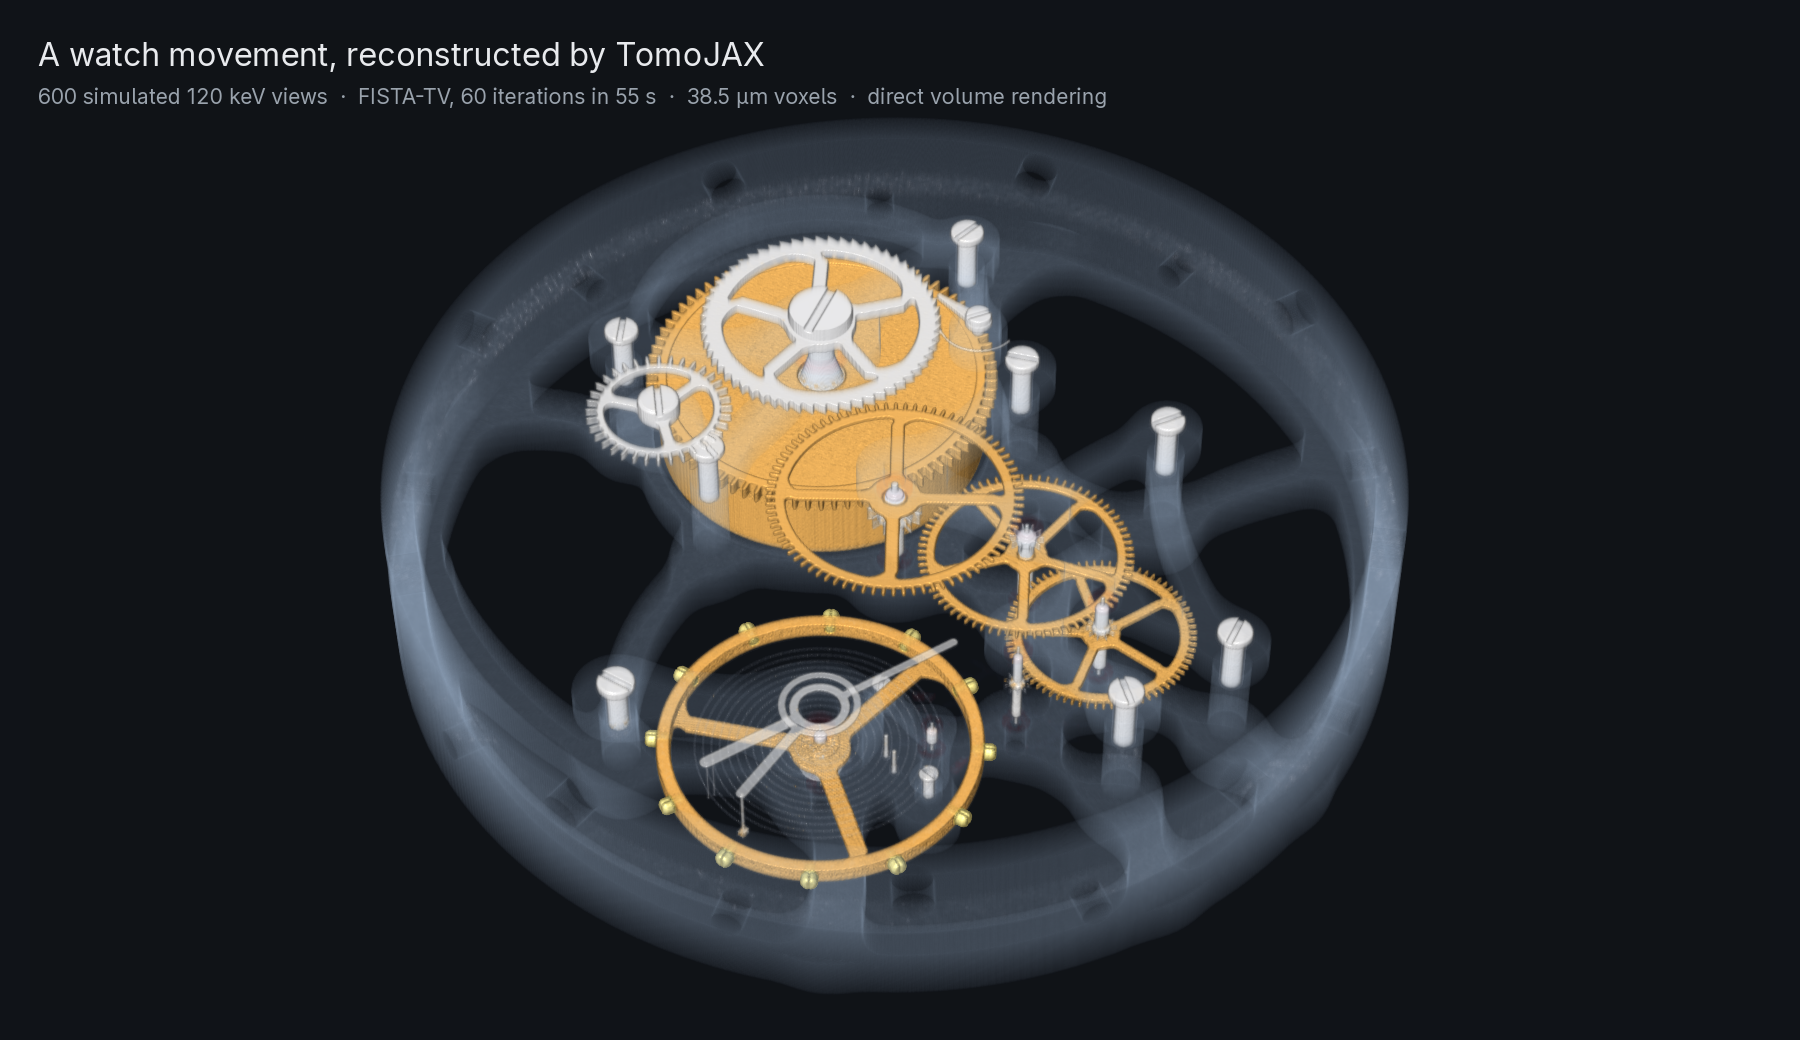
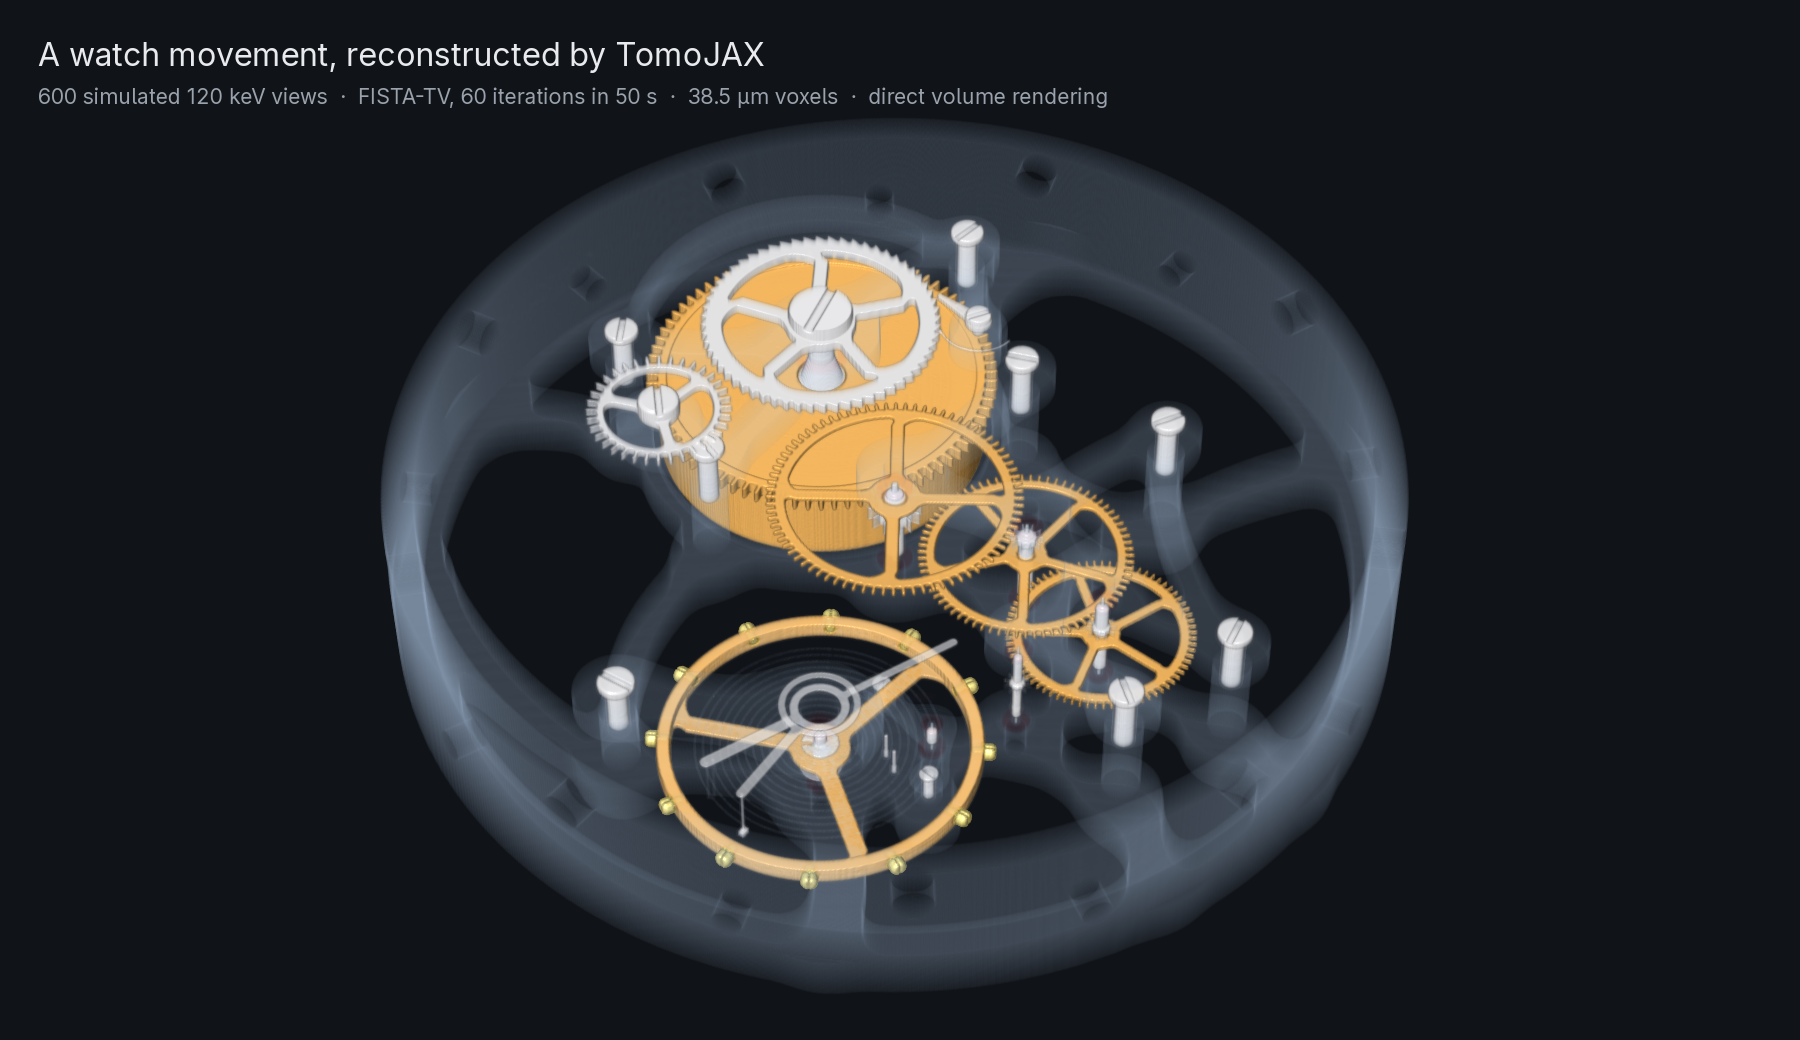
Redraw the README's few-view and render figures at a TV weight that keeps the hairspring
reconstruct_watch.py and render_watch.py fixed FISTA-TV's weight at 0.01, which
on today's TV scale over-smooths: the few-view figure's FISTA-TV error was 0.690
against the published 0.125. The automatic weight gives 0.160 and smooths the
hairspring away; 1e-5, as the README's alignment figure uses, gives 0.124 (FBP
0.357), in 17 s. Both scripts now use 1e-5; the figures, their records and the
README and examples/images notes are redrawn and corrected (render: 50 s).

diff --git a/examples/render_watch.py b/examples/render_watch.py
@@ -32,7 +32,7 @@ from tomojax.geometry import stack_view_poses
 
 SIZE, LAYERS, FIELD, MIDDLE = 768, 164, 29.6, 3.0
 VIEWS, PHOTONS = 600, 3e4
-RECONSTRUCTION = {"iterations": 60, "tv_weight": 0.01, "nonnegative": True, "warm_start": True}
+RECONSTRUCTION = {"iterations": 60, "tv_weight": 1e-5, "nonnegative": True, "warm_start": True}
 TRANSFER = _volume_render.Transfer(  # attenuation in mm^-1 at 120 keV
     stops=(
         0.0,

diff --git a/examples/reconstruct_watch.py b/examples/reconstruct_watch.py
@@ -31,7 +31,7 @@ from tomojax.geometry import stack_view_poses
 
 SIZE, SLAB, FIELD = 768, 32, 29.6  # voxels across, slab thickness in voxels, field in mm
 VIEWS, PHOTONS = 200, 1e4
-FILTER, TV_WEIGHT, ITERATIONS = "hann", 0.01, 200
+FILTER, TV_WEIGHT, ITERATIONS = "hann", 1e-5, 200
 ZOOM = 280  # voxels on a side of the balance close-up
 
 

diff --git a/examples/README.md b/examples/README.md
@@ -55,9 +55,9 @@ about 40 s. Times are on an RTX 4070 Laptop GPU.
 [reconstruct_watch.py](reconstruct_watch.py) scans the movement with 200 views
 over a half turn and 10⁴ photons per pixel, and reconstructs a 32-slice slab
 through the hairspring on 38.5 µm voxels with filtered backprojection (Hann
-filter) and with 200 iterations of non-negative FISTA-TV (weight 0.01) started
-from it. Over the whole slab the relative L2 error is 0.357 for FBP and
-0.125 for FISTA-TV, which takes 15 s. The script takes about a minute.
+filter) and with 200 iterations of non-negative FISTA-TV (weight 1e-5, which keeps
+the hairspring) started from it. Over the whole slab the relative L2 error is 0.357
+for FBP and 0.124 for FISTA-TV, which takes 17 s. The script takes about a minute.
 
 ### Align a scan with per-view motion
 
@@ -83,7 +83,7 @@ there the centre is found at 3.19 px.
 
 [render_watch.py](render_watch.py) scans the whole movement with 600 views and
 3 × 10⁴ photons per pixel, reconstructs it on a 768 × 768 × 164 grid of 38.5 µm
-voxels with 60 FISTA-TV iterations (55 s), and draws the reconstruction
+voxels with 60 FISTA-TV iterations (weight 1e-5, 50 s), and draws the reconstruction
 by direct volume rendering in JAX ([_volume_render.py](_volume_render.py)).
 Rays march through the volume, and a transfer function of the reconstructed
 attenuation sets colour and opacity: steel white, brass and the balance gold,

diff --git a/images/README.md b/images/README.md
@@ -15,8 +15,8 @@ loaded automatically on the project page.
 ![A simulated mechanical watch movement reconstructed by TomoJAX and drawn by direct volume rendering.](watch-render.png)
 
 [watch-render.png](watch-render.png) comes from
-[render_watch.py](../examples/render_watch.py): a FISTA-TV reconstruction of
-600 noisy views on 38.5 µm voxels, drawn by ray casting through the volume with
+[render_watch.py](../examples/render_watch.py): a FISTA-TV reconstruction (weight
+1e-5) of 600 noisy views on 38.5 µm voxels, drawn by ray casting through the volume with
 a transfer function of the reconstructed attenuation. Colour and opacity are
 display choices recorded in [watch-render.json](watch-render.json); the shapes
 are the reconstruction's.
@@ -28,7 +28,7 @@ are the reconstruction's.
 [reconstruction-example.png](reconstruction-example.png) comes from
 [reconstruct_watch.py](../examples/reconstruct_watch.py): 200 views with
 10⁴ photons per pixel, a 32-slice slab on 38.5 µm voxels, FBP with a Hann
-filter and FISTA-TV. Every panel shares one grey scale, 0 to 0.36 mm⁻¹, so
+filter and FISTA-TV (weight 1e-5). Every panel shares one grey scale, 0 to 0.36 mm⁻¹, so
 steel and brass saturate. Errors are relative L2 over the whole slab against
 the exact voxel average of the meshes, recorded in
 [reconstruction-example.json](reconstruction-example.json).

diff --git a/README.md b/README.md
@@ -19,7 +19,7 @@ before choosing it for an experiment. The documentation is at
 
 A 29 mm mechanical watch movement, scanned in simulation with 600 views of a
 120 keV parallel beam, reconstructed with FISTA-TV on 38.5 µm voxels in
-55 s on a laptop GPU and drawn by direct volume rendering. The
+50 s on a laptop GPU and drawn by direct volume rendering. The
 projections are traced through the movement's Blender meshes by gVXR, not made
 by TomoJAX's projector. [Reproduce it](https://github.com/tristanmanchester/tomojax/blob/main/examples/README.md#volume-render-a-reconstruction).
 
@@ -27,7 +27,7 @@ by TomoJAX's projector. [Reproduce it](https://github.com/tristanmanchester/tomo
 
 From 200 views with 10⁴ photons per pixel, filtered backprojection of a slab
 through the hairspring has relative error 0.357 against the exact voxel
-average of the meshes, and FISTA-TV 0.125, in 15 s.
+average of the meshes, and FISTA-TV 0.124, in 17 s.
 [Reproduce the figure](https://github.com/tristanmanchester/tomojax/blob/main/examples/README.md#reconstruct-a-few-view-noisy-scan).
 
 ![Nominal-geometry, aligned and true slices of the watch movement, close-ups of the balance, and recovered against true shifts for every view.](https://github.com/tristanmanchester/tomojax/raw/main/images/alignment-example.png)
